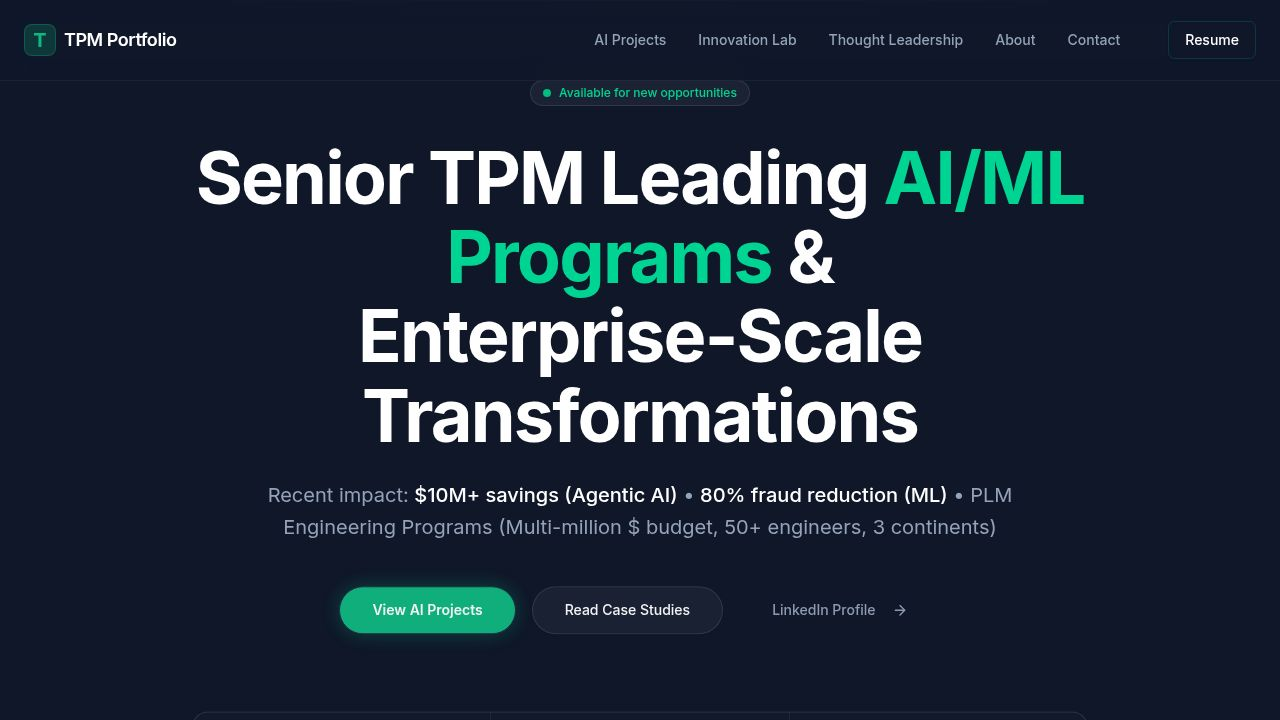
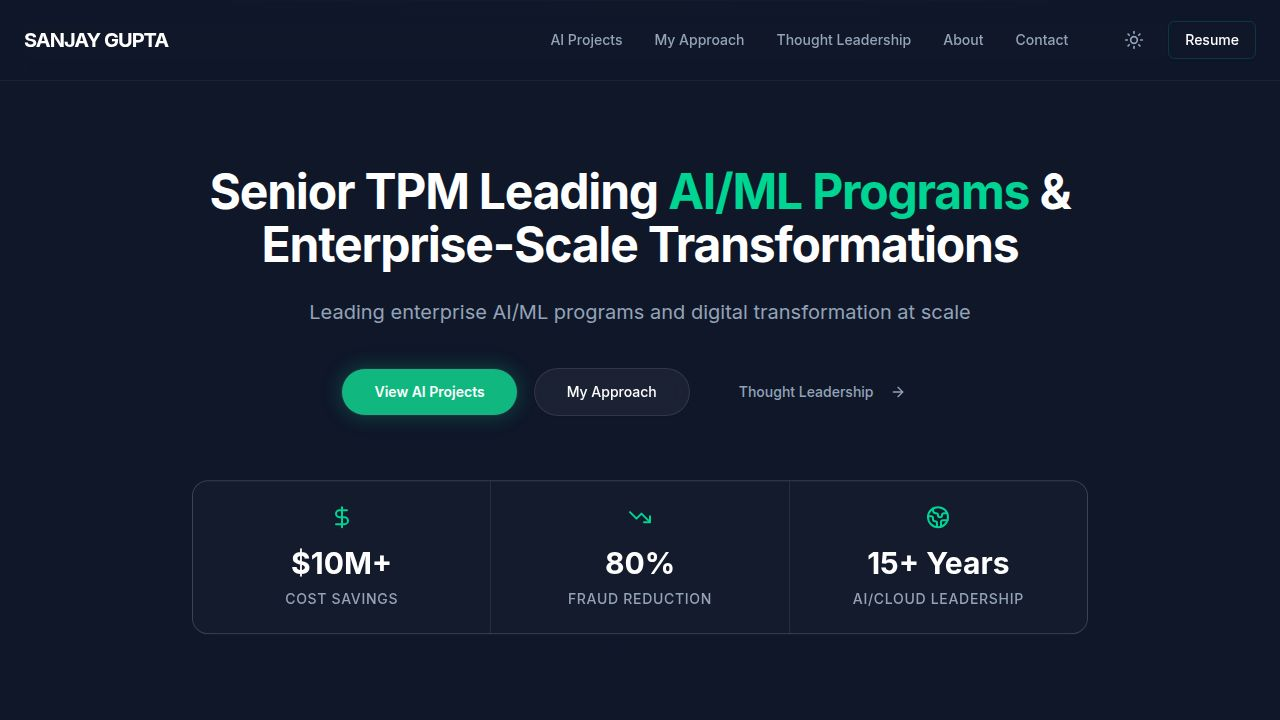
Update website navigation and content to refine brand and user experience
Refactors Navbar component to include theme toggle and branding updates, modifies Hero section with updated subheadline and CTA behavior, and removes the "Innovation Lab" section while updating the "Thought Leadership" section title.

Replit-Commit-Author: Agent
Replit-Commit-Session-Id: 3a88e3a7-360a-458e-9e7e-aaafba10e8a5
Replit-Commit-Checkpoint-Type: full_checkpoint
Replit-Commit-Event-Id: 30dc707d-f09e-4a1b-9bce-bb8fd85d1565
Replit-Commit-Screenshot-Url: https://storage.googleapis.com/screenshot-production-us-central1/7cde7cb2-ef80-49d1-80b2-d9b551cf30d3/3a88e3a7-360a-458e-9e7e-aaafba10e8a5/GoaTTOZ
Replit-Helium-Checkpoint-Created: true

diff --git a/client/src/components/sections/Hero.tsx b/client/src/components/sections/Hero.tsx
@@ -1,8 +1,15 @@
 import { motion } from "framer-motion";
 import { Button } from "@/components/ui/button";
-import { ArrowRight, TrendingDown, ChevronDown, CheckCircle2, DollarSign, Globe2 } from "lucide-react";
+import { ArrowRight, TrendingDown, ChevronDown, DollarSign, Globe2 } from "lucide-react";
 
 export function Hero() {
+  const scrollTo = (id: string) => {
+    const element = document.getElementById(id);
+    if (element) {
+      element.scrollIntoView({ behavior: "smooth" });
+    }
+  };
+
   return (
     <section className="relative min-h-screen flex flex-col justify-center items-center pt-20 overflow-hidden">
       {/* Background Gradients */}
@@ -10,24 +17,11 @@ export function Hero() {
       <div className="absolute top-0 w-full h-px bg-gradient-to-r from-transparent via-white/10 to-transparent" />
 
       <div className="container mx-auto px-6 relative z-10 flex flex-col items-center text-center">
-        <motion.div
-          initial={{ opacity: 0, y: 20 }}
-          animate={{ opacity: 1, y: 0 }}
-          transition={{ duration: 0.5 }}
-          className="inline-flex items-center gap-2 px-3 py-1 rounded-full bg-white/5 border border-white/10 text-xs font-medium text-emerald-400 mb-8"
-        >
-          <span className="relative flex h-2 w-2">
-            <span className="animate-ping absolute inline-flex h-full w-full rounded-full bg-emerald-400 opacity-75"></span>
-            <span className="relative inline-flex rounded-full h-2 w-2 bg-emerald-500"></span>
-          </span>
-          Available for new opportunities
-        </motion.div>
-
         <motion.h1
           initial={{ opacity: 0, y: 20 }}
           animate={{ opacity: 1, y: 0 }}
           transition={{ duration: 0.5, delay: 0.1 }}
-          className="text-4xl md:text-6xl lg:text-7xl font-bold tracking-tight text-white max-w-5xl mb-6 leading-[1.1]"
+          className="text-4xl md:text-[48px] font-bold tracking-tight text-white max-w-5xl mb-6 leading-[1.1]"
         >
           Senior TPM Leading <span className="text-emerald-400">AI/ML Programs</span> & <br className="hidden md:block" /> Enterprise-Scale Transformations
         </motion.h1>
@@ -38,7 +32,7 @@ export function Hero() {
           transition={{ duration: 0.5, delay: 0.2 }}
           className="text-lg md:text-xl text-muted-foreground max-w-3xl mb-10 leading-relaxed"
         >
-          Recent impact: <span className="text-white font-medium">$10M+ savings (Agentic AI)</span> • <span className="text-white font-medium">80% fraud reduction (ML)</span> • PLM Engineering Programs (Multi-million $ budget, 50+ engineers, 3 continents)
+          Leading enterprise AI/ML programs and digital transformation at scale
         </motion.p>
 
         <motion.div
@@ -47,14 +41,28 @@ export function Hero() {
           transition={{ duration: 0.5, delay: 0.3 }}
           className="flex flex-col sm:flex-row items-center gap-4 mb-16"
         >
-          <Button size="lg" className="bg-primary hover:bg-emerald-600 text-white font-semibold h-12 px-8 rounded-full shadow-[0_0_20px_rgba(16,185,129,0.3)] transition-all hover:scale-105">
+          <Button 
+            size="lg" 
+            className="bg-primary hover:bg-emerald-600 text-white font-semibold h-12 px-8 rounded-full shadow-[0_0_20px_rgba(16,185,129,0.3)] transition-all hover:scale-105"
+            onClick={() => scrollTo("projects")}
+          >
             View AI Projects
           </Button>
-          <Button size="lg" variant="outline" className="border-white/10 bg-white/5 hover:bg-white/10 text-white h-12 px-8 rounded-full backdrop-blur-sm transition-all">
-            Read Case Studies
+          <Button 
+            size="lg" 
+            variant="outline" 
+            className="border-white/10 bg-white/5 hover:bg-white/10 text-white h-12 px-8 rounded-full backdrop-blur-sm transition-all"
+            onClick={() => scrollTo("approach")}
+          >
+            My Approach
           </Button>
-          <Button size="lg" variant="ghost" className="text-muted-foreground hover:text-white h-12 px-8 rounded-full">
-            LinkedIn Profile <ArrowRight className="ml-2 w-4 h-4" />
+          <Button 
+            size="lg" 
+            variant="ghost" 
+            className="text-muted-foreground hover:text-white h-12 px-8 rounded-full"
+            onClick={() => scrollTo("thoughts")}
+          >
+            Thought Leadership <ArrowRight className="ml-2 w-4 h-4" />
           </Button>
         </motion.div>
 

diff --git a/client/src/components/layout/Navbar.tsx b/client/src/components/layout/Navbar.tsx
@@ -1,12 +1,11 @@
 import { motion } from "framer-motion";
-import { Link } from "wouter";
+import { Menu, X, Sun, Moon } from "lucide-react";
+import { useState, useEffect } from "react";
 import { Button } from "@/components/ui/button";
-import { Menu, X } from "lucide-react";
-import { useState } from "react";
 
 const navLinks = [
   { name: "AI Projects", href: "#projects" },
-  { name: "Innovation Lab", href: "#innovation" },
+  { name: "My Approach", href: "#approach" },
   { name: "Thought Leadership", href: "#thoughts" },
   { name: "About", href: "#about" },
   { name: "Contact", href: "#contact" },
@@ -14,15 +13,28 @@ const navLinks = [
 
 export function Navbar() {
   const [isOpen, setIsOpen] = useState(false);
+  const [theme, setTheme] = useState("dark");
+
+  useEffect(() => {
+    const isDark = document.documentElement.classList.contains("dark");
+    setTheme(isDark ? "dark" : "light");
+  }, []);
+
+  const toggleTheme = () => {
+    const newTheme = theme === "dark" ? "light" : "dark";
+    setTheme(newTheme);
+    if (newTheme === "dark") {
+      document.documentElement.classList.add("dark");
+    } else {
+      document.documentElement.classList.remove("dark");
+    }
+  };
 
   return (
     <nav className="fixed top-0 left-0 right-0 z-50 glass">
       <div className="container mx-auto px-6 h-20 flex items-center justify-between">
         <div className="flex items-center gap-2">
-          <div className="w-8 h-8 rounded-lg bg-primary/20 flex items-center justify-center border border-primary/30">
-            <span className="font-bold text-primary text-xl">T</span>
-          </div>
-          <span className="font-semibold text-lg tracking-tight">TPM Portfolio</span>
+          <span className="font-bold text-xl tracking-tighter text-white dark:text-white light:text-slate-900">SANJAY GUPTA</span>
         </div>
 
         {/* Desktop Nav */}
@@ -36,18 +48,35 @@ export function Navbar() {
               {link.name}
             </a>
           ))}
-          <Button variant="outline" className="border-primary/20 hover:bg-primary/10 hover:text-primary text-primary-foreground font-medium ml-4">
-            Resume
-          </Button>
+          <div className="flex items-center gap-4 ml-4">
+            <button
+              onClick={toggleTheme}
+              className="p-2 rounded-full hover:bg-white/10 text-muted-foreground hover:text-white transition-colors"
+              aria-label="Toggle theme"
+            >
+              {theme === "dark" ? <Sun size={20} /> : <Moon size={20} />}
+            </button>
+            <Button variant="outline" className="border-primary/20 hover:bg-primary/10 hover:text-primary text-primary-foreground font-medium">
+              Resume
+            </Button>
+          </div>
         </div>
 
         {/* Mobile Nav Toggle */}
-        <button 
-          className="md:hidden text-muted-foreground hover:text-white"
-          onClick={() => setIsOpen(!isOpen)}
-        >
-          {isOpen ? <X /> : <Menu />}
-        </button>
+        <div className="flex items-center gap-4 md:hidden">
+          <button
+            onClick={toggleTheme}
+            className="p-2 rounded-full hover:bg-white/10 text-muted-foreground hover:text-white transition-colors"
+          >
+            {theme === "dark" ? <Sun size={20} /> : <Moon size={20} />}
+          </button>
+          <button 
+            className="text-muted-foreground hover:text-white"
+            onClick={() => setIsOpen(!isOpen)}
+          >
+            {isOpen ? <X /> : <Menu />}
+          </button>
+        </div>
       </div>
 
       {/* Mobile Menu */}

diff --git a/client/src/pages/home.tsx b/client/src/pages/home.tsx
@@ -1,7 +1,6 @@
 import { Navbar } from "@/components/layout/Navbar";
 import { Hero } from "@/components/sections/Hero";
 import { Projects } from "@/components/sections/Projects";
-import { InnovationLab } from "@/components/sections/InnovationLab";
 import { Approach } from "@/components/sections/Approach";
 import { ThoughtLeadership } from "@/components/sections/ThoughtLeadership";
 import { About } from "@/components/sections/About";
@@ -14,7 +13,6 @@ export default function Home() {
       <main>
         <Hero />
         <Projects />
-        <InnovationLab />
         <Approach />
         <ThoughtLeadership />
         <About />

diff --git a/client/src/components/sections/ThoughtLeadership.tsx b/client/src/components/sections/ThoughtLeadership.tsx
@@ -38,7 +38,7 @@ export function ThoughtLeadership() {
           viewport={{ once: true }}
           className="text-3xl md:text-4xl font-bold text-white mb-16"
         >
-          Contributing to the <span className="text-emerald-400">AI Discourse</span>
+          Thought Leadership & <span className="text-emerald-400">Publications</span>
         </motion.h2>
 
         <div className="grid grid-cols-1 lg:grid-cols-2 gap-16">
